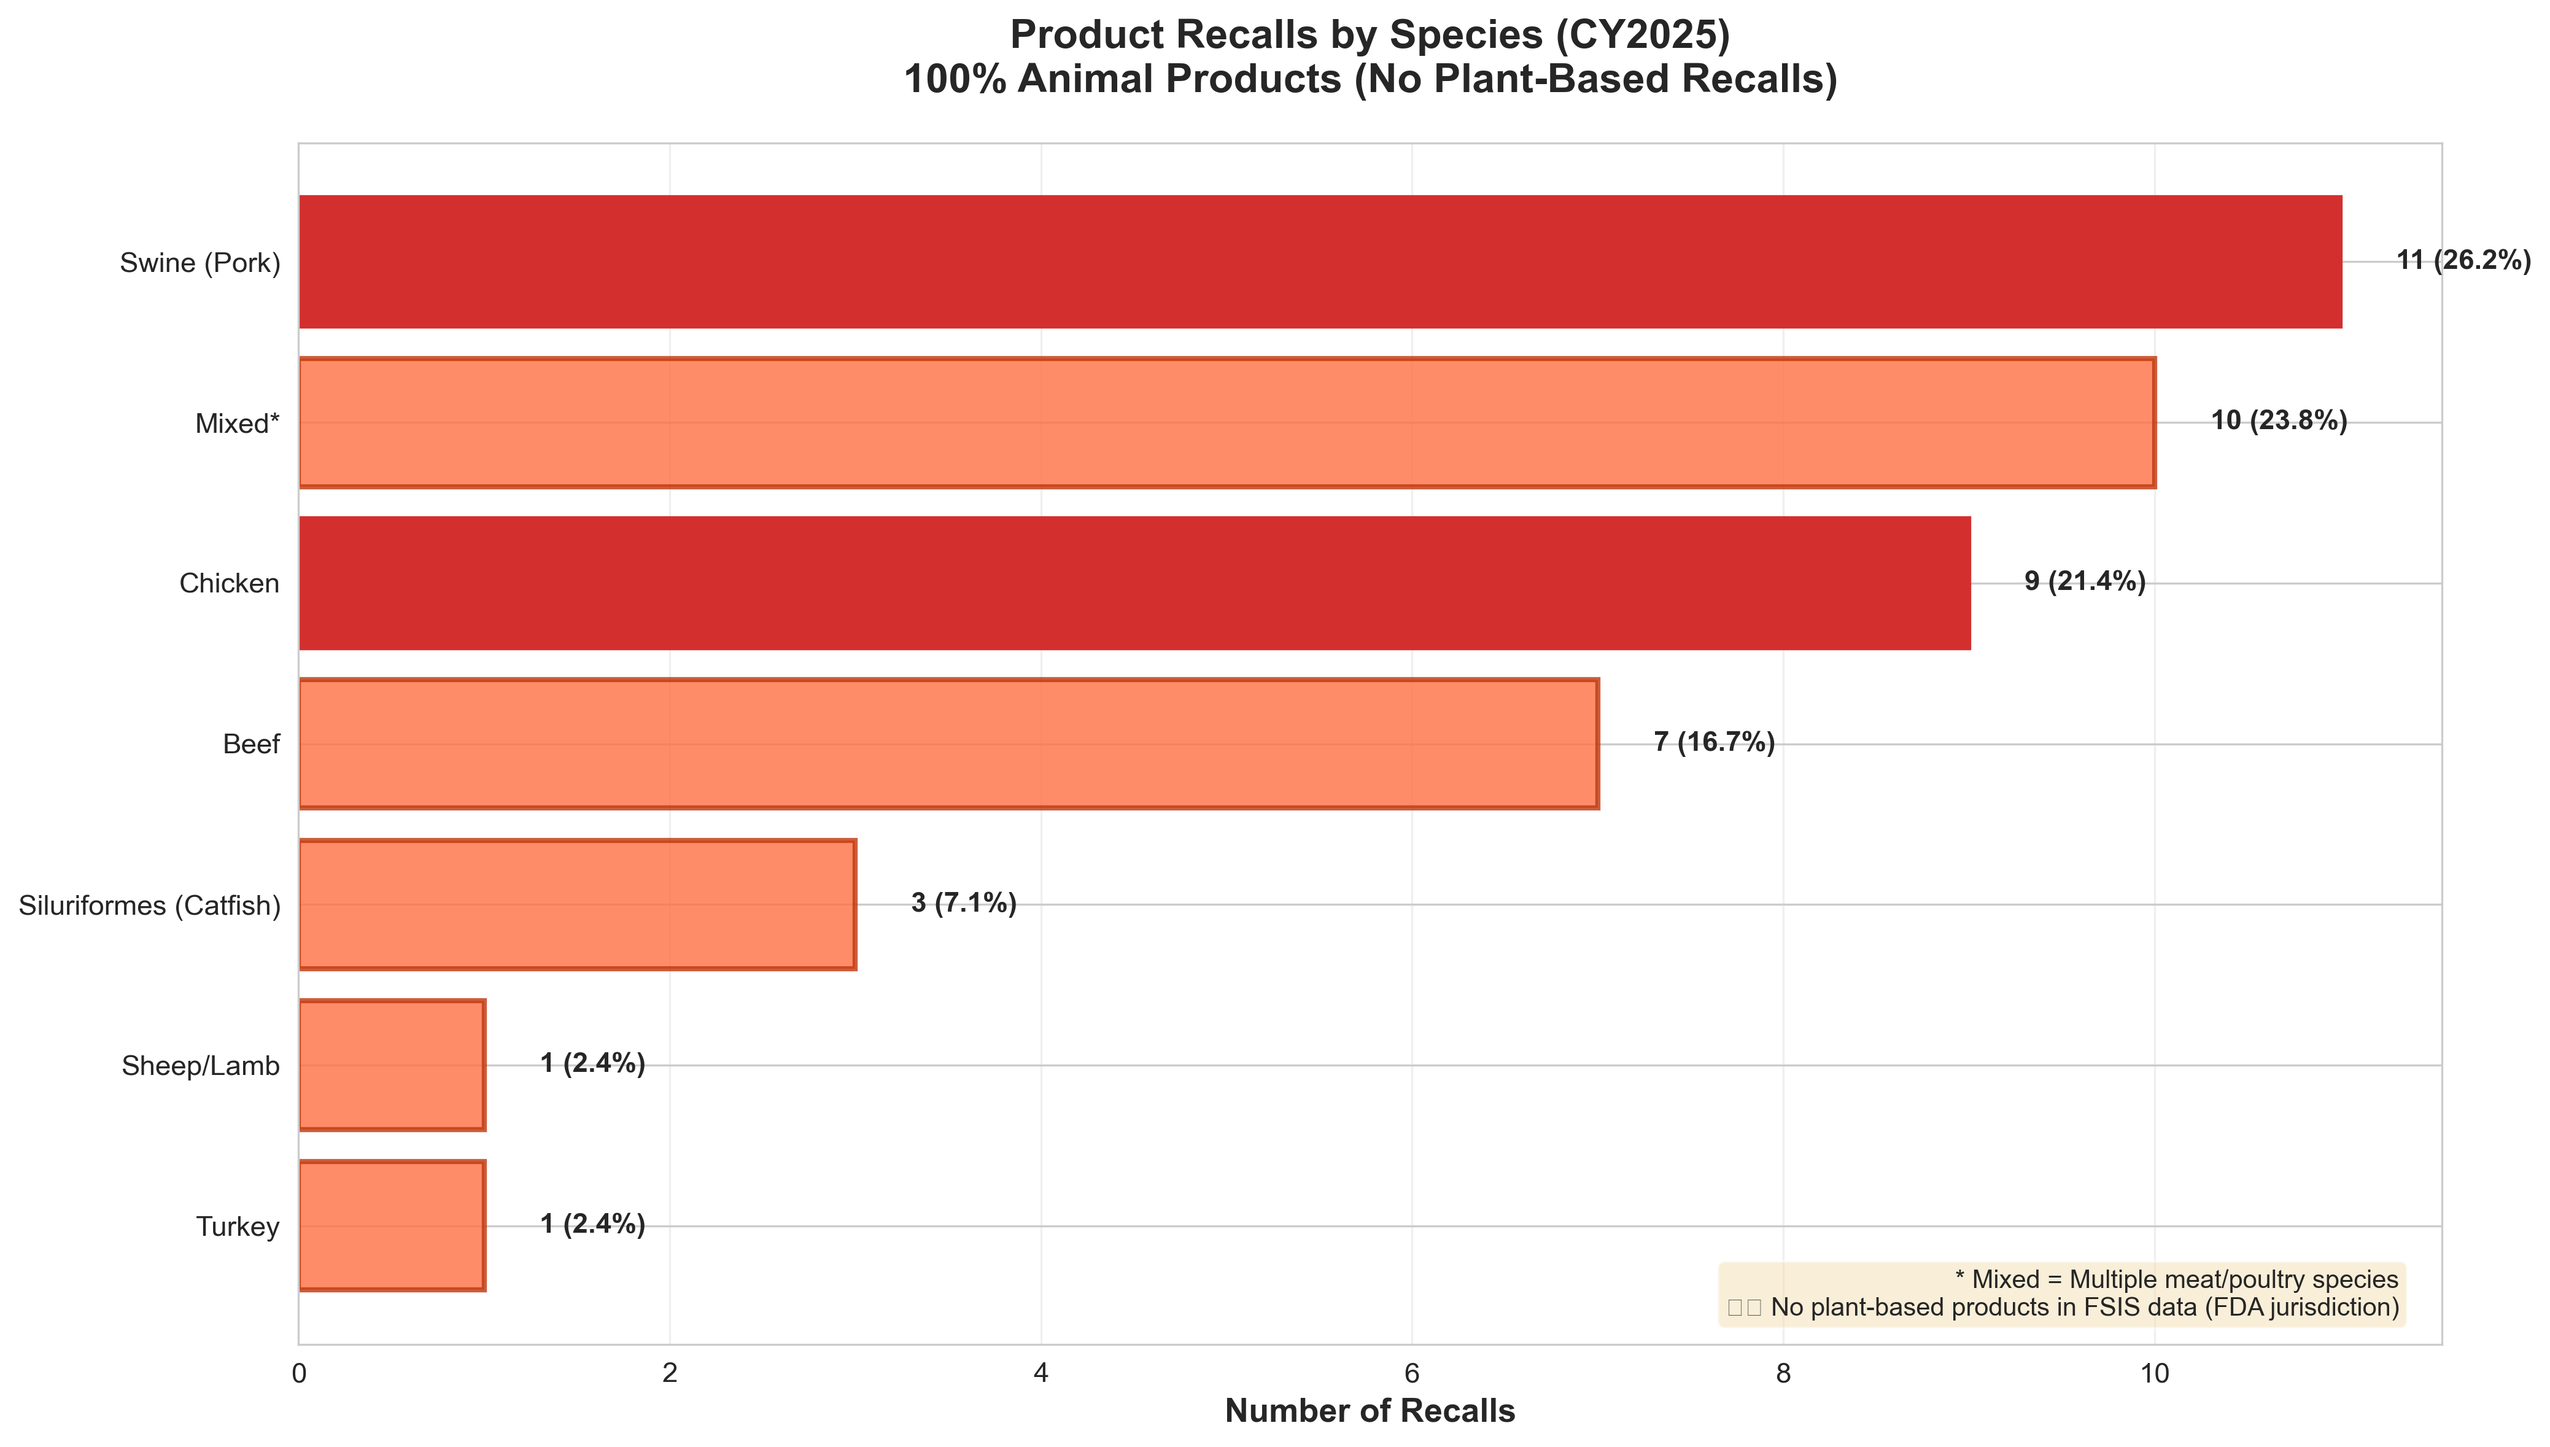
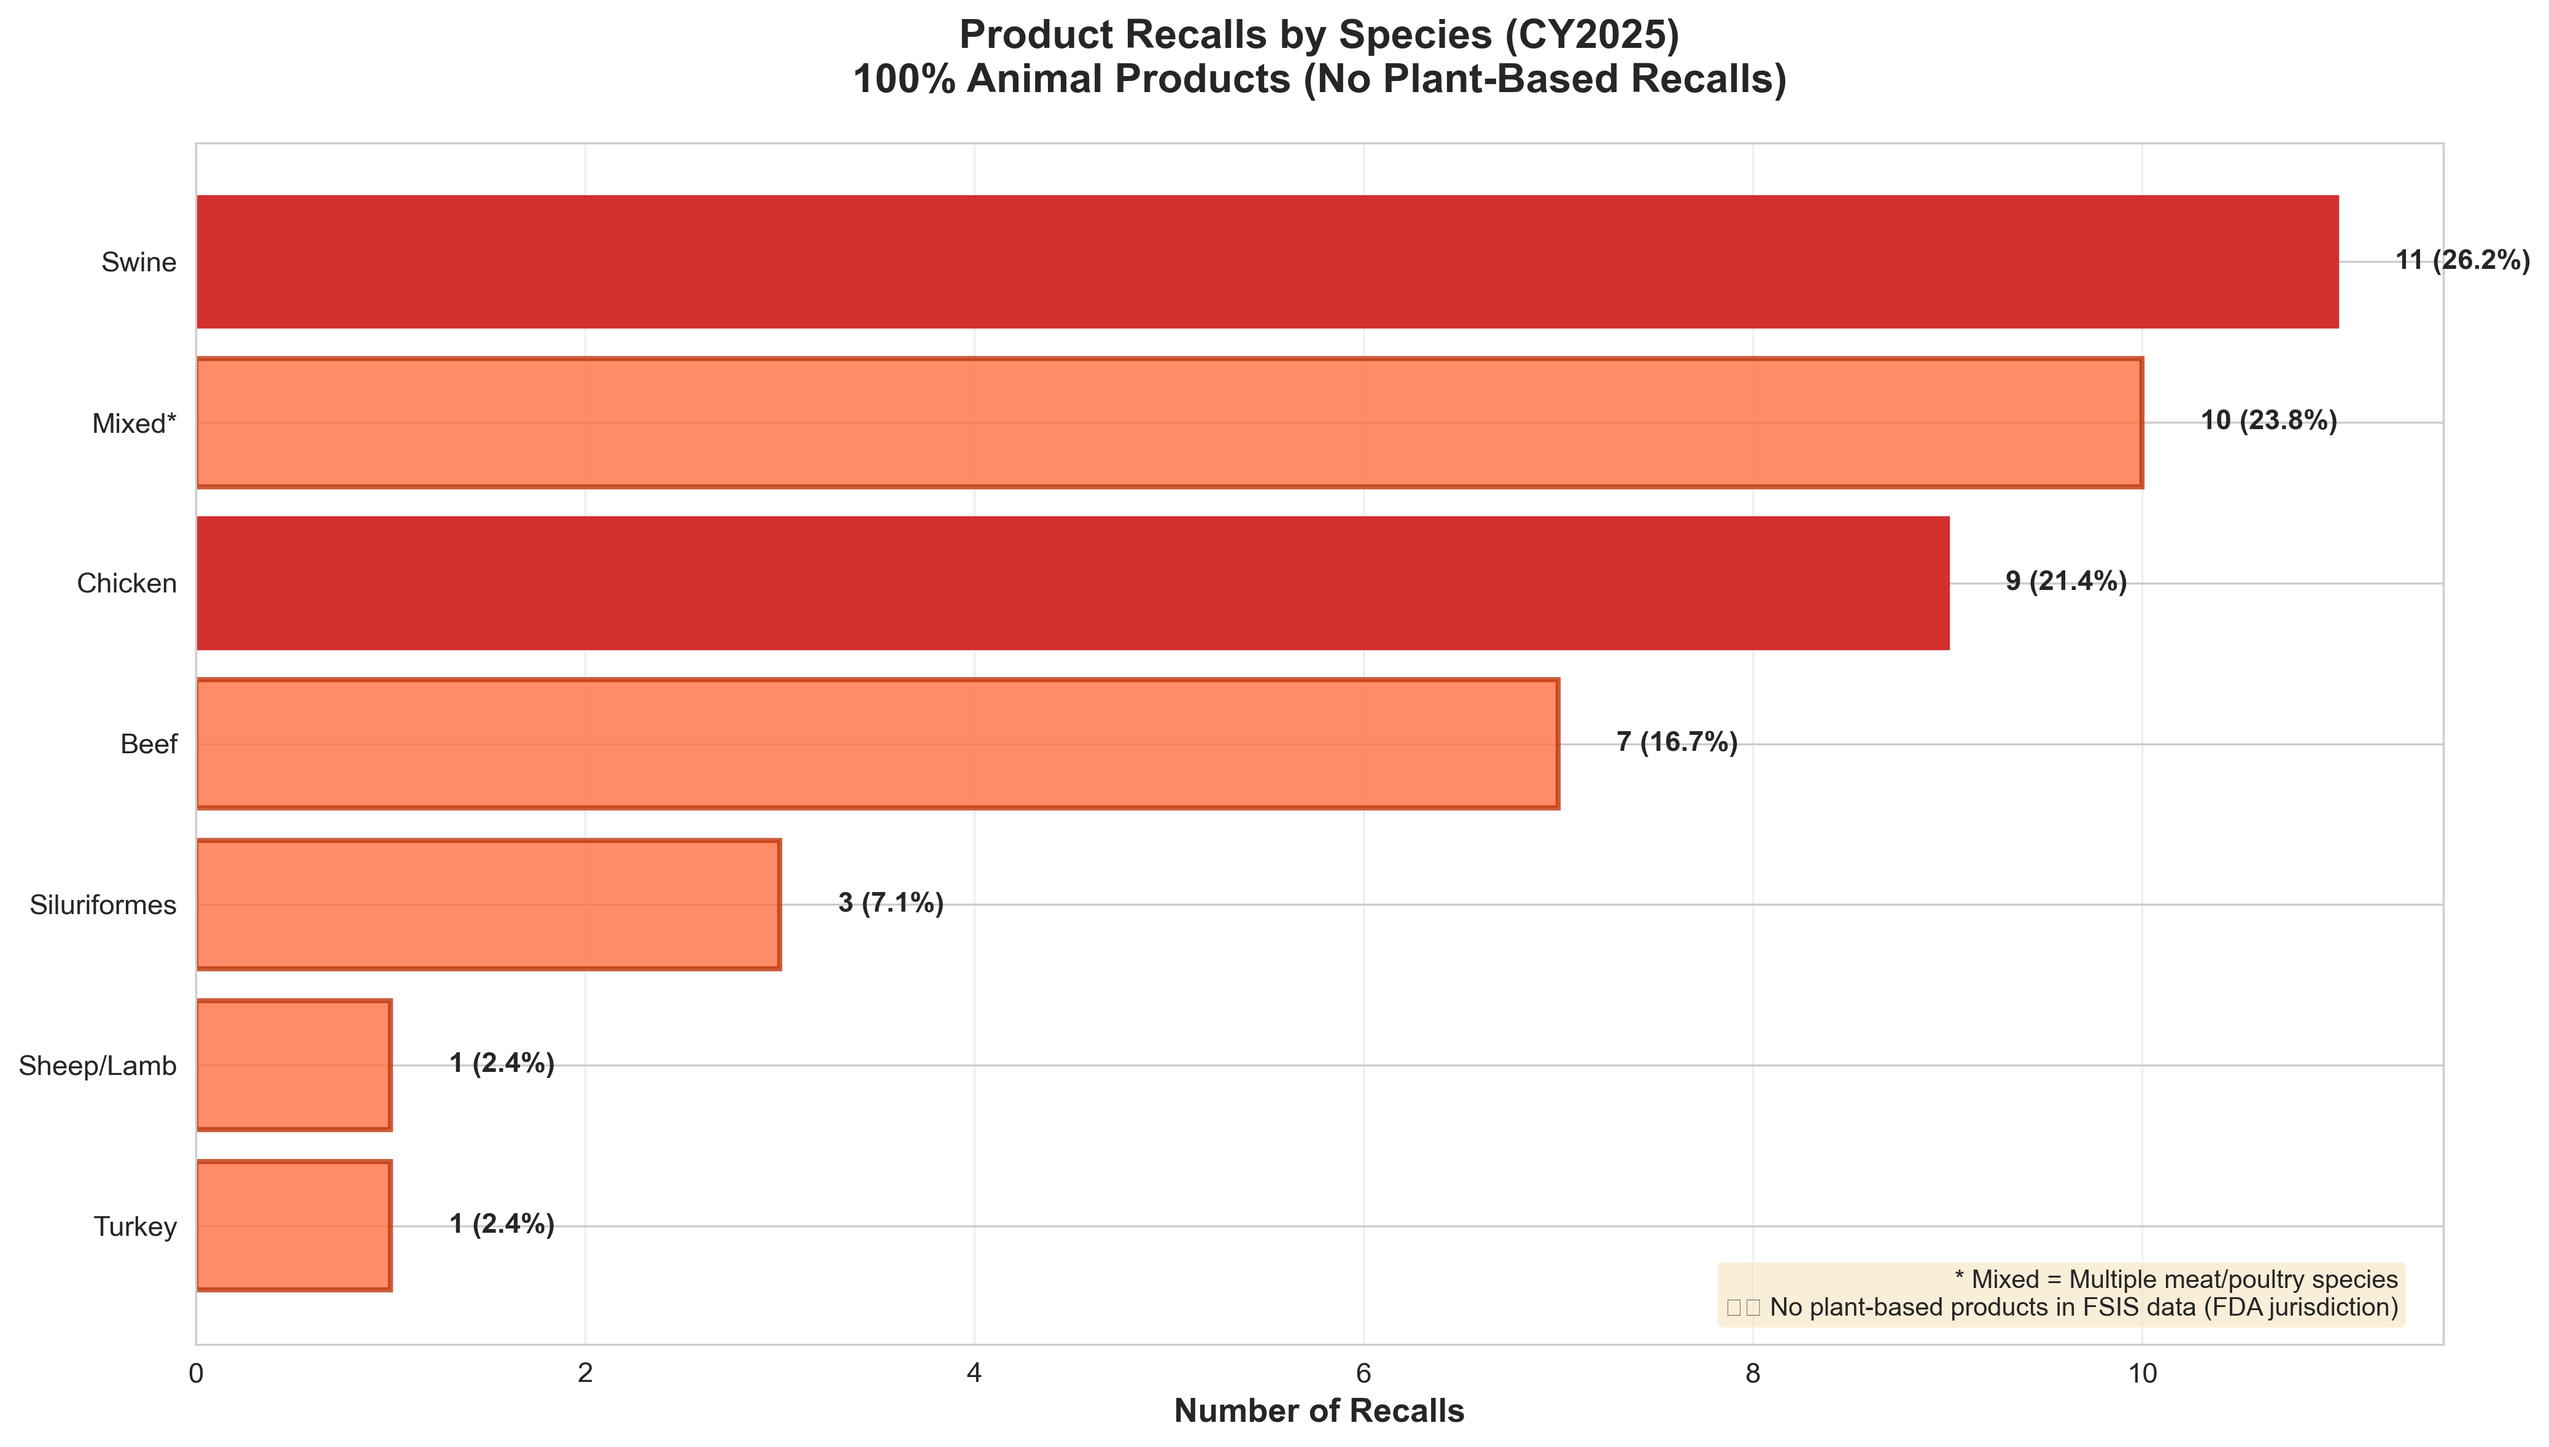
Cleanup recall csv

diff --git a/skills/dataAnalysisSkill.md b/skills/dataAnalysisSkill.md
@@ -631,6 +631,7 @@ with open('file.json', 'rb') as f:
 2. **Complex data wrangling**: Nested JSON, header issues
 3. **Iterative searches**: Finding specific records/patterns
 4. **Reproducible analysis**: Need to re-run same analysis
+5. **New dataset**: It's better to create a new file for altered data than modifying the original dataset
 
 ### Script Best Practices:
 
